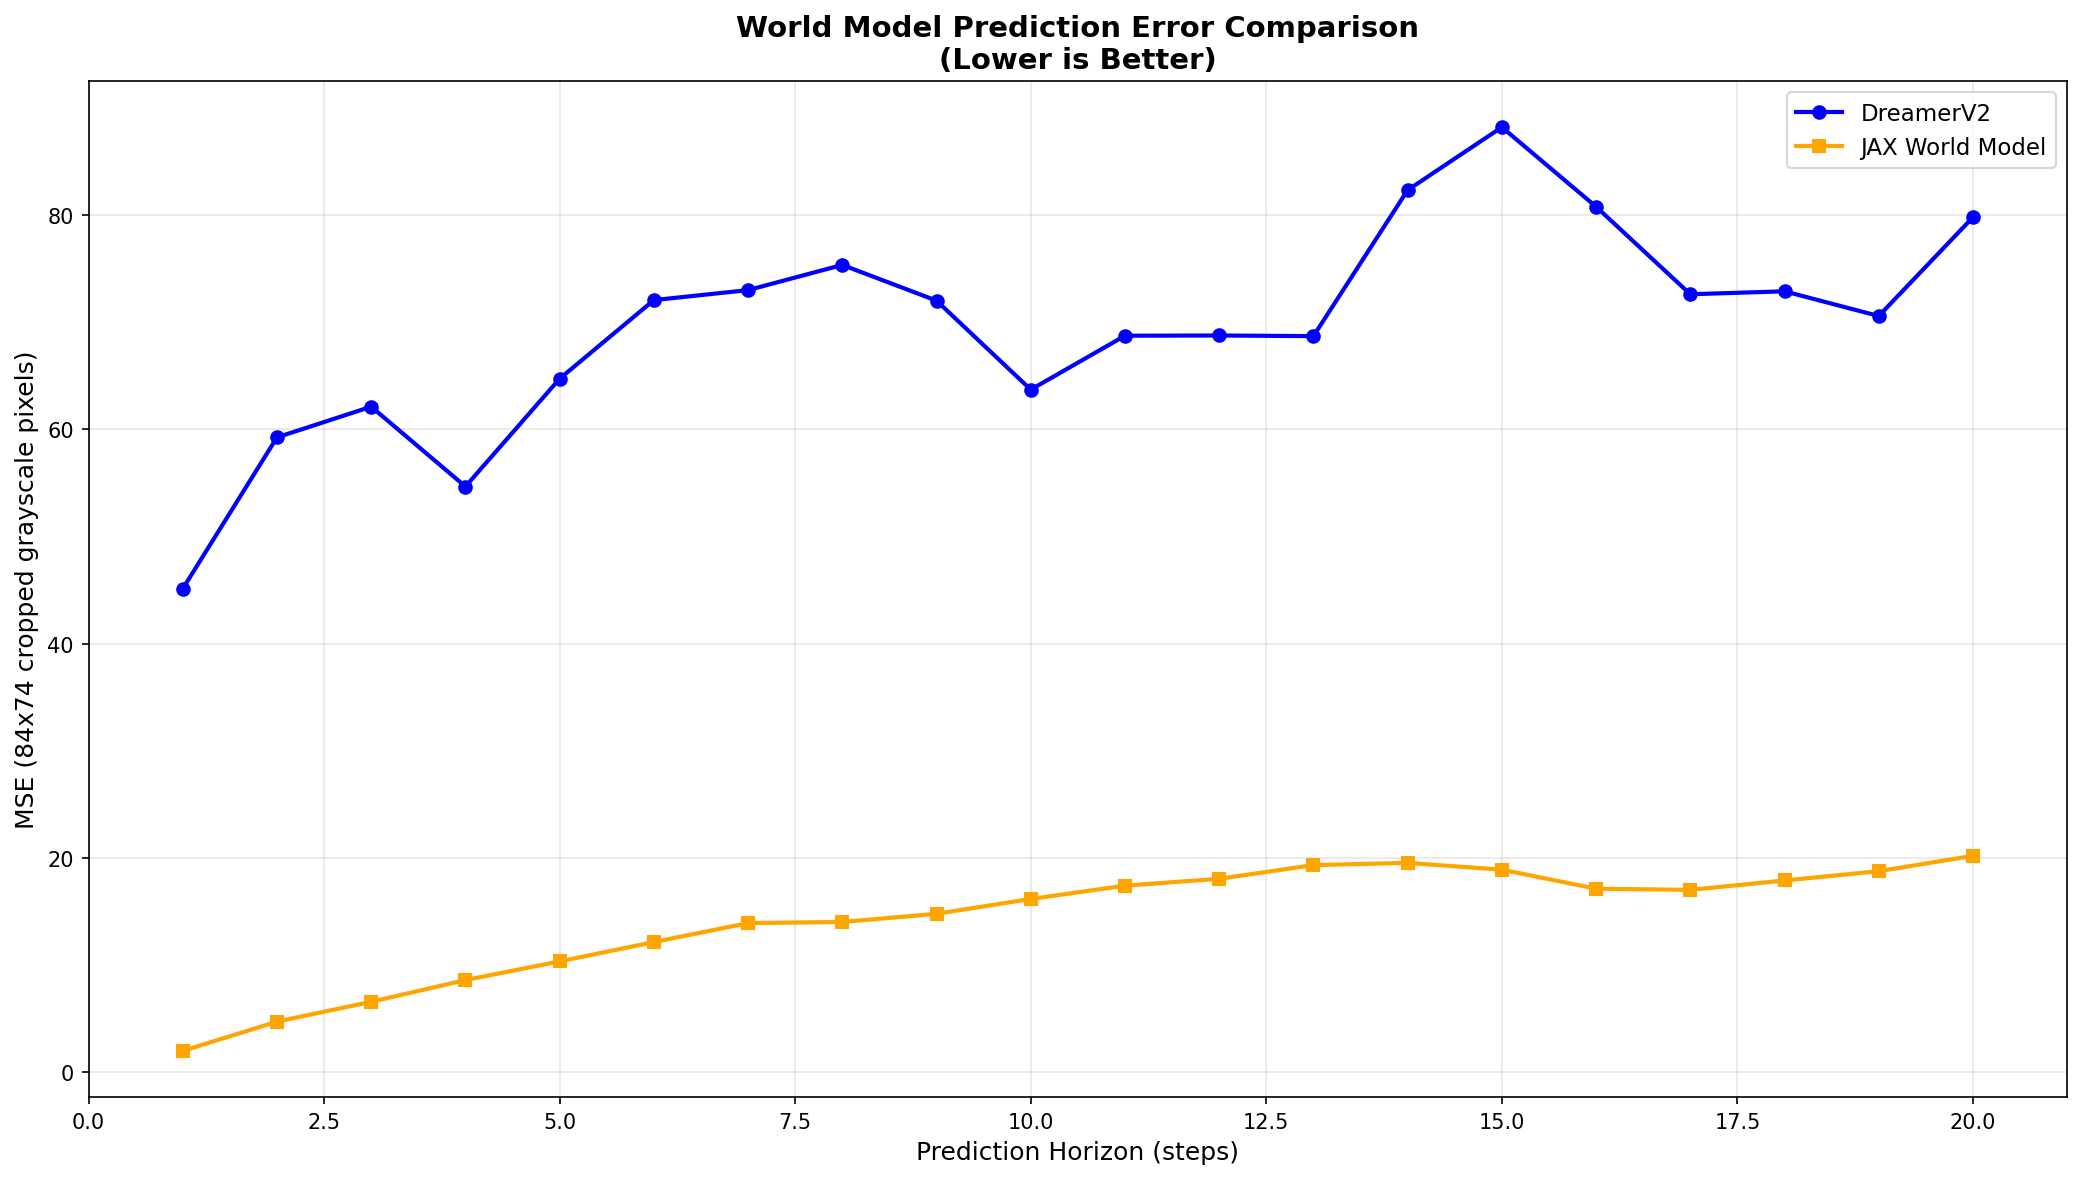
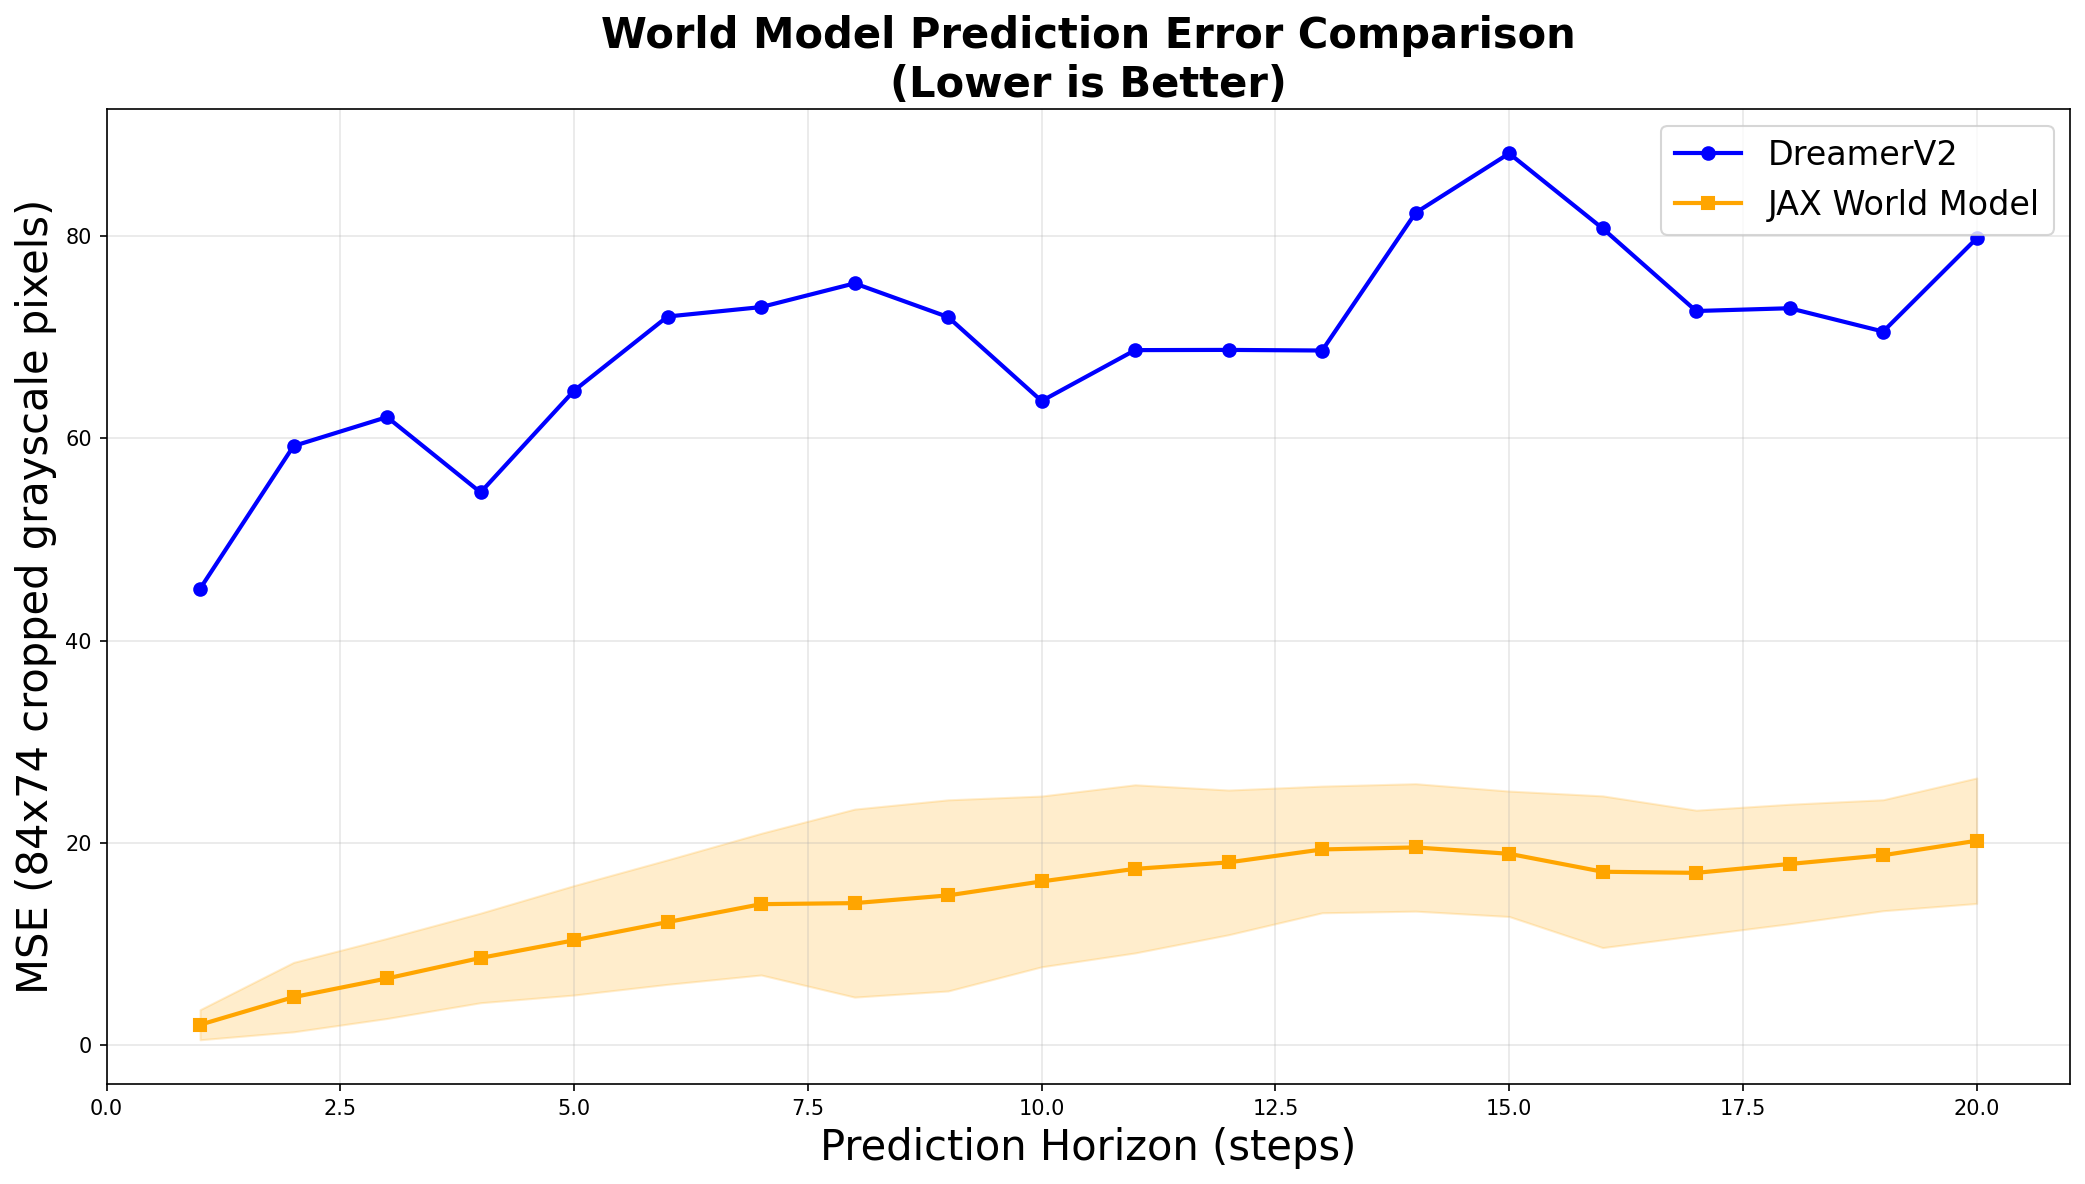
picture readded with standard deviation

diff --git a/MBRL/experiments/experiment2/compare_models.py b/MBRL/experiments/experiment2/compare_models.py
@@ -10,24 +10,24 @@ from pathlib import Path
 
 
 def main():
-    print("=" * 80)
-    print("Comparing DreamerV2 vs JAX World Model")
-    print("=" * 80)
-    print()
+    
+    
+    
+    
 
     # Load DreamerV2 results
     dreamer_path = Path("sequence_predictions_dreamer.pkl")
     if not dreamer_path.exists():
-        print(f"❌ DreamerV2 results not found at {dreamer_path}")
-        print("   Run ./run_comparison.sh first")
+        
+        
         return
 
     with open(dreamer_path, "rb") as f:
         dreamer_results = pickle.load(f)
 
-    print(f"✓ Loaded DreamerV2 results")
-    print(f"   Sequences: {dreamer_results['num_sequences']}")
-    print(f"   Sequence length: {dreamer_results['sequence_length']}")
+    
+    
+    
 
     # Load JAX results
     jax_path = Path("sequence_predictions_jax.pkl")
@@ -35,17 +35,17 @@ def main():
         # Try old name for backwards compatibility
         jax_path = Path("sequence_predictions.pkl")
     if not jax_path.exists():
-        print(f"❌ JAX results not found")
-        print("   Run ./run_comparison.sh first")
+        
+        
         return
 
     with open(jax_path, "rb") as f:
         jax_results = pickle.load(f)
 
-    print(f"✓ Loaded JAX results")
-    print(f"   Sequences: {jax_results['num_sequences']}")
-    print(f"   Sequence length: {jax_results['sequence_length']}")
-    print()
+    
+    
+    
+    
 
     # Extract MSE data
     dreamer_mse = dreamer_results['mse_per_horizon_pixels']
@@ -81,20 +81,20 @@ def main():
 
     horizons = np.arange(1, min_length + 1)
 
-    # Print comparison table
-    print("=" * 80)
-    print("MSE Comparison (84x84 Grayscale Pixel Space)")
-    print("=" * 80)
-    print(f"{'Horizon':<10} {'DreamerV2':<15} {'JAX Model':<15} {'Difference':<15} {'Ratio (D/J)':<15}")
-    print("-" * 80)
+    # 
+    
+    
+    
+    
+    
 
     for i, horizon in enumerate(horizons):
         if horizon % 5 == 0 or horizon <= 5:
             diff = dreamer_mse[i] - jax_mse[i]
             ratio = dreamer_mse[i] / jax_mse[i] if jax_mse[i] > 0 else float('inf')
-            print(f"{horizon:<10} {dreamer_mse[i]:<15.4f} {jax_mse[i]:<15.4f} {diff:<+15.4f} {ratio:<15.3f}")
+            
 
-    print()
+    
 
     # Calculate overall statistics
     dreamer_mean = np.mean(dreamer_mse)
@@ -102,13 +102,13 @@ def main():
     dreamer_std = np.std(dreamer_mse)
     jax_std = np.std(jax_mse)
 
-    print("=" * 80)
-    print("Overall Statistics")
-    print("=" * 80)
-    print(f"DreamerV2: Mean MSE = {dreamer_mean:.4f} ± {dreamer_std:.4f}")
-    print(f"JAX Model: Mean MSE = {jax_mean:.4f} ± {jax_std:.4f}")
-    print(f"Difference: {dreamer_mean - jax_mean:+.4f} ({(dreamer_mean/jax_mean - 1)*100:+.1f}%)")
-    print()
+    
+    
+    
+    
+    
+    
+    
 
     # Create comparison plot
     fig, ax = plt.subplots(1, 1, figsize=(14, 8))
@@ -121,38 +121,37 @@ def main():
         ax.fill_between(horizons,
                         jax_mse - jax_std_per_horizon,
                         jax_mse + jax_std_per_horizon,
-                        color='orange', alpha=0.2, label='JAX ±1 std')
+                        color='orange', alpha=0.2)
 
-    ax.set_xlabel('Prediction Horizon (steps)', fontsize=14)
-    ax.set_ylabel('MSE (84x74 cropped grayscale pixels)', fontsize=14)
-    ax.set_title('World Model Prediction Error Comparison\n(Lower is Better)', fontsize=16, fontweight='bold')
-    ax.legend(fontsize=13)
+    ax.set_xlabel('Prediction Horizon (steps)', fontsize=20)
+    ax.set_ylabel('MSE (84x74 cropped grayscale pixels)', fontsize=20)
+    ax.set_title('World Model Prediction Error Comparison\n(Lower is Better)', fontsize=20, fontweight='bold')
+    ax.legend(fontsize=16)
     ax.grid(True, alpha=0.3)
     ax.set_xlim(0, min_length + 1)
 
     plt.tight_layout()
     output_path = "model_comparison_plot.png"
     plt.savefig(output_path, dpi=150, bbox_inches='tight')
-    print(f"✓ Saved comparison plot to {output_path}")
-    print()
+    
+    
 
     # Determine winner
-    print("=" * 80)
-    print("Summary")
-    print("=" * 80)
+    
+    
+    
     if dreamer_mean < jax_mean:
         improvement = (1 - dreamer_mean / jax_mean) * 100
-        print(f"🏆 DreamerV2 is BETTER by {improvement:.1f}%")
+        
     elif jax_mean < dreamer_mean:
         improvement = (1 - jax_mean / dreamer_mean) * 100
-        print(f"🏆 JAX World Model is BETTER by {improvement:.1f}%")
-    else:
-        print("🤝 Both models perform equally")
-    print()
+        
+        
+    
 
-    print("File created:")
-    print(f"  - {output_path}")
-    print()
+    
+    
+    
 
 
 if __name__ == "__main__":
